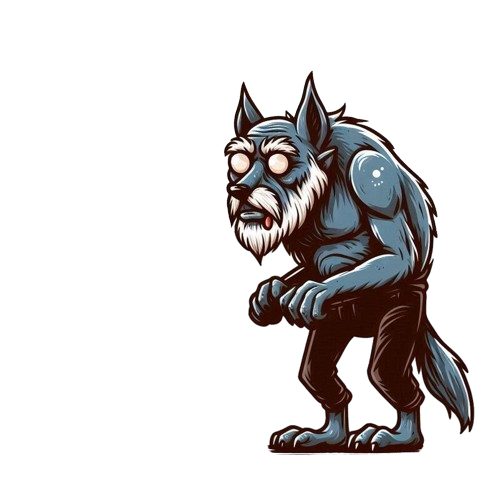
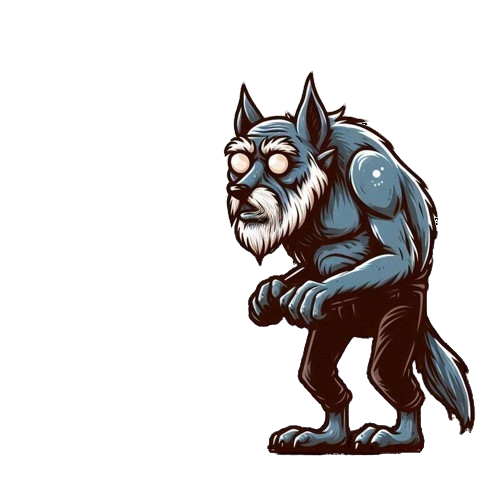
diverses corrections

diff --git a/src/app/regles/regles.component.html b/src/app/regles/regles.component.html
@@ -55,7 +55,7 @@
                 <h2>Variantes officiels</h2>
                     
                     <h3>Clair de Lune</h3>
-                    <img src="bougies.png" class="responsive-img" alt="image"/>
+                    <img src="clairDeLune.jpg" class="responsive-img" alt="image"/>
                     <p>
                         Dans un environnement obscur où l’on pourrait presque entendre le hurlement des loups, disposer devant chaque joueur une petite bougie allumée.
                         Dorénavant, chaque matin le meneur souffle la bougie posée devant la ou les victimes nocturnes. 
